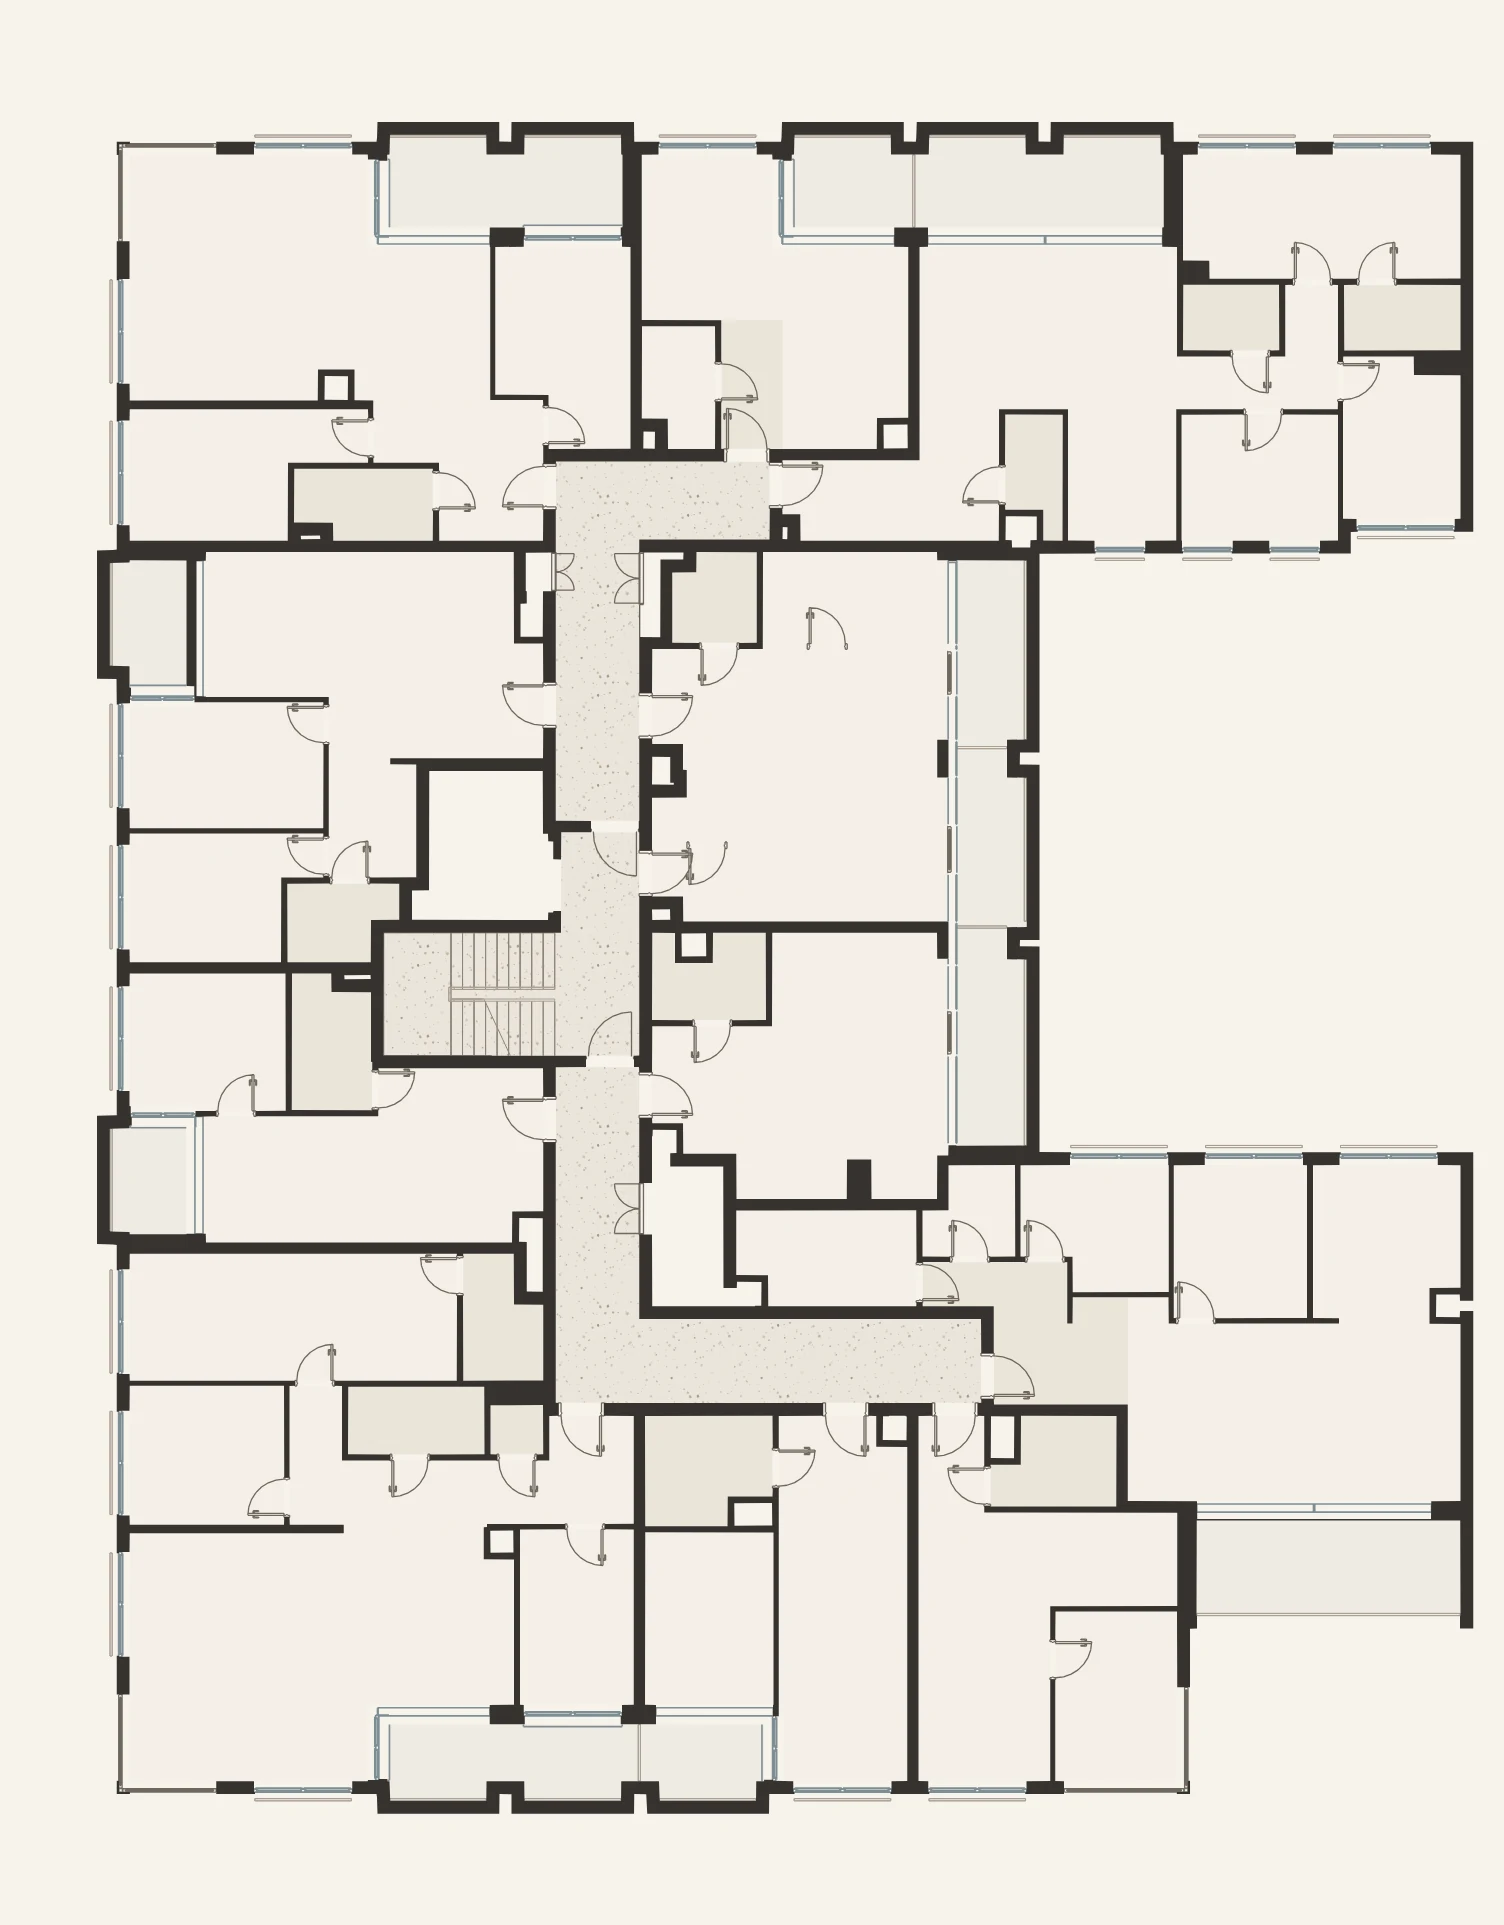
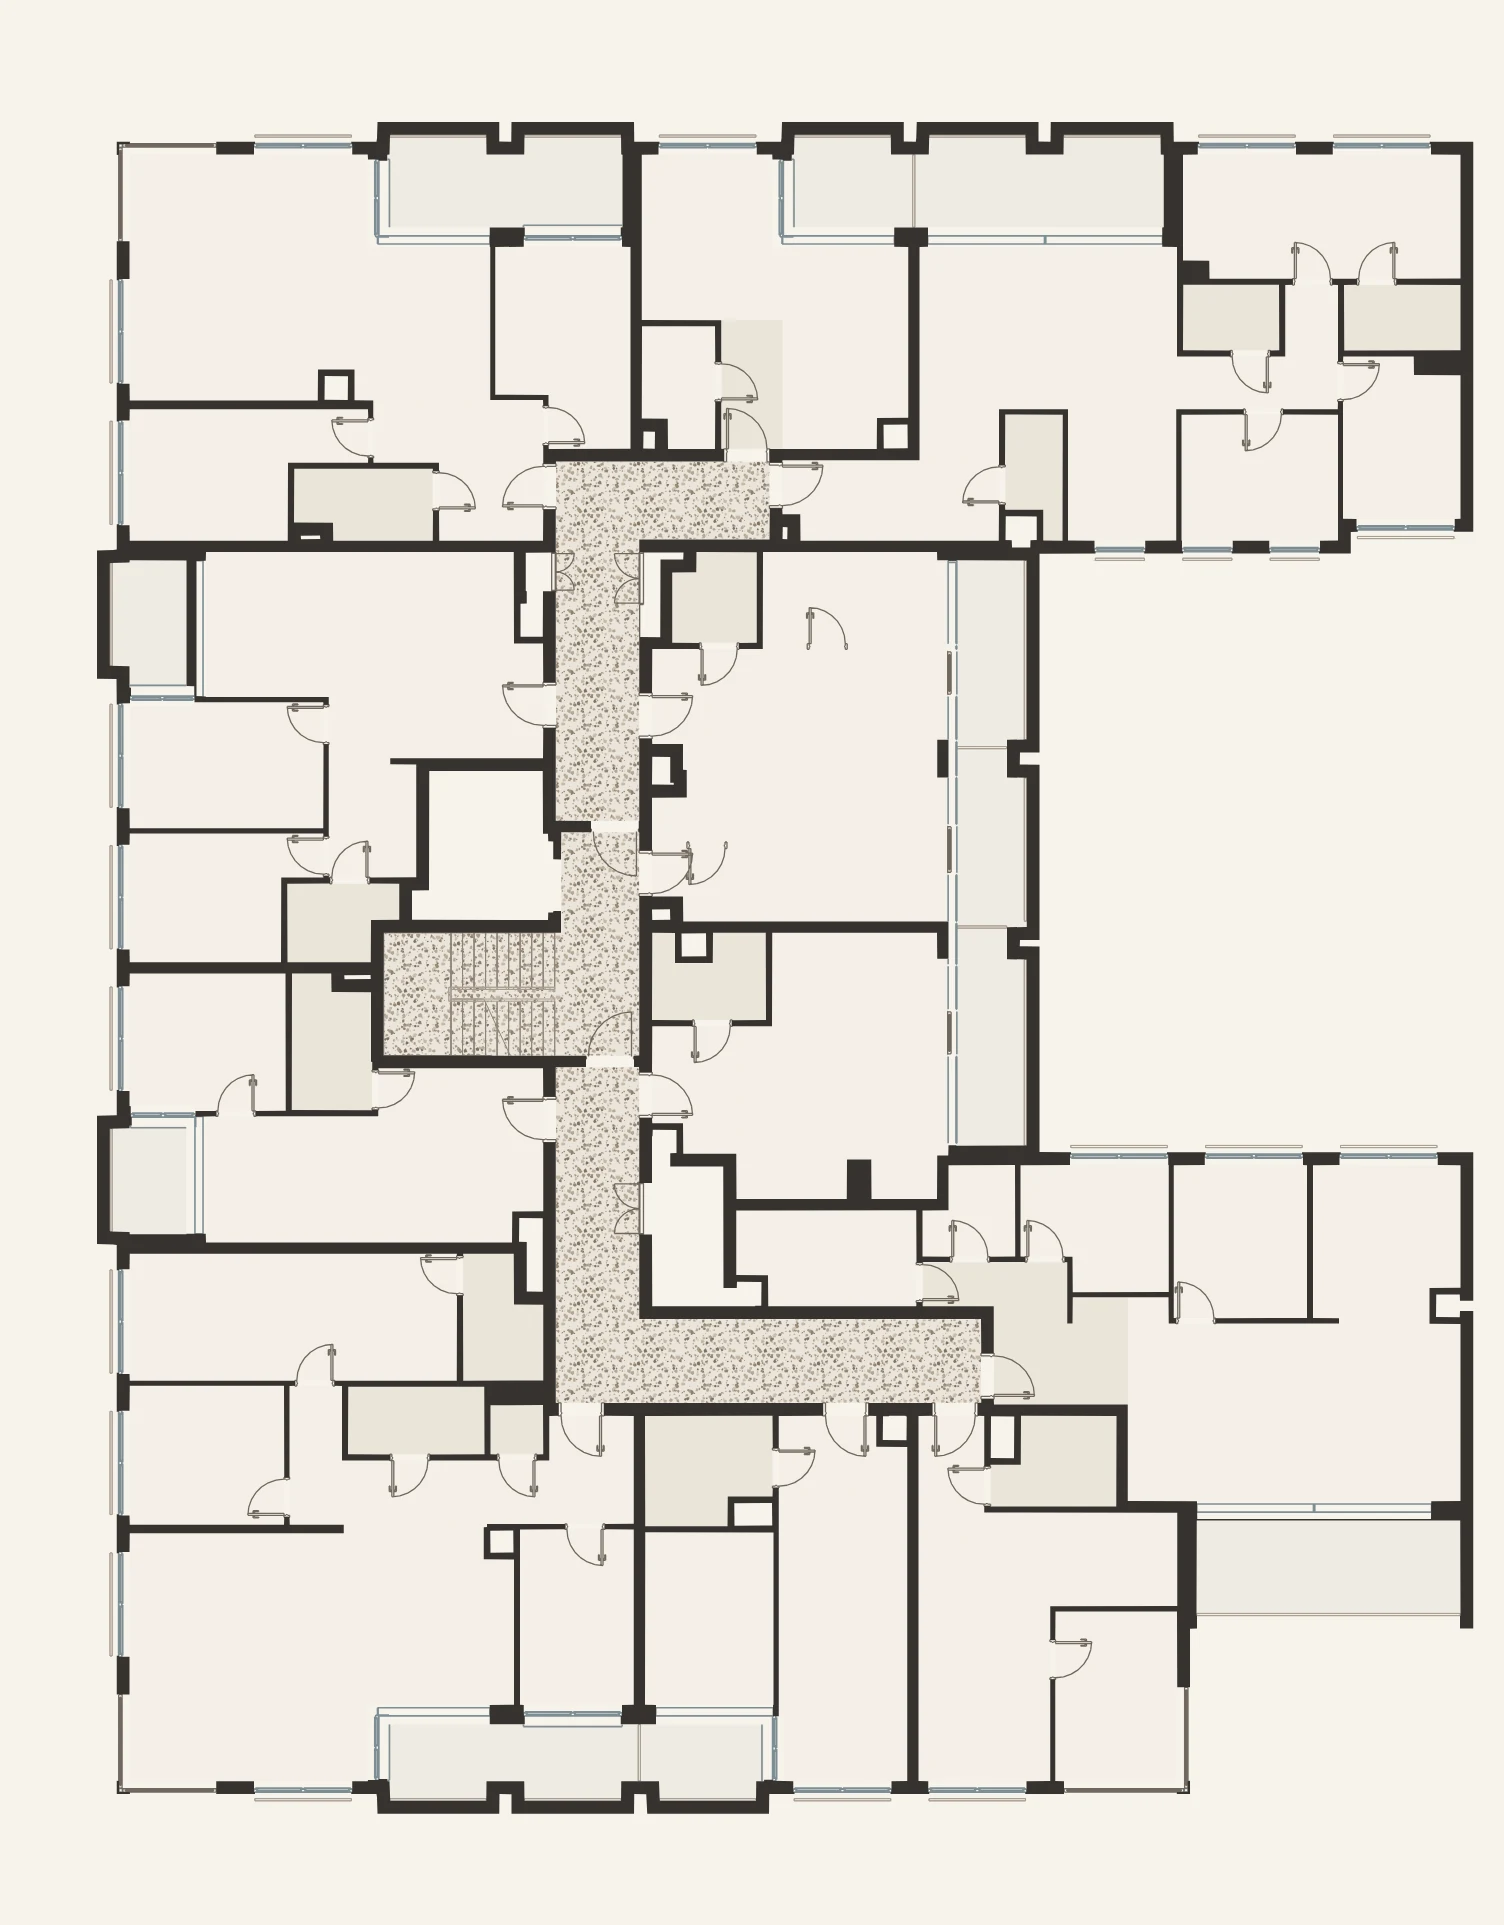
Rzuty: korytarze w wyraźniej kropkowanym lastryko (#120)
Claude-Session: https://claude.ai/code/session_01JqTzECbEDLjSdFDYMQNNHw

Changed region(s): [[0.25, 0.2182, 0.6562, 0.7481]]

diff --git a/index.html b/index.html
@@ -18,7 +18,7 @@
   <link href="https://fonts.googleapis.com/css2?family=Jost:ital,wght@0,300..600;1,300..500&family=Nunito+Sans:ital,opsz,wght@0,6..12,300..700;1,6..12,300..500&display=swap" rel="stylesheet">
   <link rel="preload" as="image" href="assets/img/okolica-lotnicze.webp" imagesrcset="assets/img/okolica-lotnicze-1600.webp 1600w, assets/img/okolica-lotnicze.webp 3200w" imagesizes="100vw">
   <link rel="stylesheet" href="https://unpkg.com/leaflet@1.9.4/dist/leaflet.css" crossorigin="">
-  <link rel="stylesheet" href="assets/css/style.css?v=1793990924">
+  <link rel="stylesheet" href="assets/css/style.css?v=1793990989">
   <script>document.documentElement.classList.add('js');
   // Futura / Avenir Next tylko na Apple: gdy ich brak, dostrajamy darmowe zamienniki (Jost, Nunito Sans)
   (function(){try{var c=document.createElement('canvas').getContext('2d'),t='MWNmwqr075 Łódź';function w(f){c.font='72px '+f;return c.measureText(t).width}
@@ -667,12 +667,12 @@
 </div>
 
 <script src="https://unpkg.com/leaflet@1.9.4/dist/leaflet.js" crossorigin=""></script>
-<script src="assets/js/intro.js?v=1793990924"></script>
-<script src="assets/js/extras.js?v=1793990924"></script>
-<script src="assets/js/units.js?v=1793990924"></script>
-<script src="assets/js/dziennik.js?v=1793990924"></script>
-<script src="assets/js/plan.js?v=1793990924"></script>
-<script src="assets/js/dollhouse.js?v=1793990924" defer></script>
-<script src="assets/js/main.js?v=1793990924"></script>
+<script src="assets/js/intro.js?v=1793990989"></script>
+<script src="assets/js/extras.js?v=1793990989"></script>
+<script src="assets/js/units.js?v=1793990989"></script>
+<script src="assets/js/dziennik.js?v=1793990989"></script>
+<script src="assets/js/plan.js?v=1793990989"></script>
+<script src="assets/js/dollhouse.js?v=1793990989" defer></script>
+<script src="assets/js/main.js?v=1793990989"></script>
 </body>
 </html>

diff --git a/mieszkanie.html b/mieszkanie.html
@@ -17,7 +17,7 @@
   <!-- Docelowo: Futura PT i Avenir Next z licencji (np. Adobe Fonts). Jost i Nunito Sans to darmowe zamienniki na urządzeniach bez tych krojów. -->
   <link href="https://fonts.googleapis.com/css2?family=Jost:ital,wght@0,300..600;1,300..500&family=Nunito+Sans:ital,opsz,wght@0,6..12,300..700;1,6..12,300..500&display=swap" rel="stylesheet">
   
-  <link rel="stylesheet" href="assets/css/style.css?v=1793990924">
+  <link rel="stylesheet" href="assets/css/style.css?v=1793990989">
   <script>document.documentElement.classList.add('js');
   // Futura / Avenir Next tylko na Apple: gdy ich brak, dostrajamy darmowe zamienniki (Jost, Nunito Sans)
   (function(){try{var c=document.createElement('canvas').getContext('2d'),t='MWNmwqr075 Łódź';function w(f){c.font='72px '+f;return c.measureText(t).width}
@@ -101,11 +101,11 @@
   <button class="lb-close" aria-label="Zamknij"><svg viewBox="0 0 24 24"><path d="M6 6l12 12M18 6L6 18"/></svg></button>
 </div>
 
-<script src="assets/js/extras.js?v=1793990924"></script>
-<script src="assets/js/units.js?v=1793990924"></script>
-<script src="assets/js/plan.js?v=1793990924"></script>
-<script src="assets/js/dollhouse.js?v=1793990924" defer></script>
-<script src="assets/js/unit.js?v=1793990924"></script>
-<script src="assets/js/page.js?v=1793990924"></script>
+<script src="assets/js/extras.js?v=1793990989"></script>
+<script src="assets/js/units.js?v=1793990989"></script>
+<script src="assets/js/plan.js?v=1793990989"></script>
+<script src="assets/js/dollhouse.js?v=1793990989" defer></script>
+<script src="assets/js/unit.js?v=1793990989"></script>
+<script src="assets/js/page.js?v=1793990989"></script>
 </body>
 </html>

diff --git a/porownaj.html b/porownaj.html
@@ -18,7 +18,7 @@
   <!-- Docelowo: Futura PT i Avenir Next z licencji (np. Adobe Fonts). Jost i Nunito Sans to darmowe zamienniki na urządzeniach bez tych krojów. -->
   <link href="https://fonts.googleapis.com/css2?family=Jost:ital,wght@0,300..600;1,300..500&family=Nunito+Sans:ital,opsz,wght@0,6..12,300..700;1,6..12,300..500&display=swap" rel="stylesheet">
   
-  <link rel="stylesheet" href="assets/css/style.css?v=1793990924">
+  <link rel="stylesheet" href="assets/css/style.css?v=1793990989">
   <script>document.documentElement.classList.add('js');
   // Futura / Avenir Next tylko na Apple: gdy ich brak, dostrajamy darmowe zamienniki (Jost, Nunito Sans)
   (function(){try{var c=document.createElement('canvas').getContext('2d'),t='MWNmwqr075 Łódź';function w(f){c.font='72px '+f;return c.measureText(t).width}
@@ -109,9 +109,9 @@
   <button class="lb-close" aria-label="Zamknij"><svg viewBox="0 0 24 24"><path d="M6 6l12 12M18 6L6 18"/></svg></button>
 </div>
 
-<script src="assets/js/extras.js?v=1793990924"></script>
-<script src="assets/js/units.js?v=1793990924"></script>
-<script src="assets/js/page.js?v=1793990924"></script>
-<script src="assets/js/porownaj.js?v=1793990924"></script>
+<script src="assets/js/extras.js?v=1793990989"></script>
+<script src="assets/js/units.js?v=1793990989"></script>
+<script src="assets/js/page.js?v=1793990989"></script>
+<script src="assets/js/porownaj.js?v=1793990989"></script>
 </body>
 </html>

diff --git a/budynek.html b/budynek.html
@@ -17,7 +17,7 @@
   <!-- Docelowo: Futura PT i Avenir Next z licencji (np. Adobe Fonts). Jost i Nunito Sans to darmowe zamienniki na urządzeniach bez tych krojów. -->
   <link href="https://fonts.googleapis.com/css2?family=Jost:ital,wght@0,300..600;1,300..500&family=Nunito+Sans:ital,opsz,wght@0,6..12,300..700;1,6..12,300..500&display=swap" rel="stylesheet">
   
-  <link rel="stylesheet" href="assets/css/style.css?v=1793990924">
+  <link rel="stylesheet" href="assets/css/style.css?v=1793990989">
   <script>document.documentElement.classList.add('js');
   // Futura / Avenir Next tylko na Apple: gdy ich brak, dostrajamy darmowe zamienniki (Jost, Nunito Sans)
   (function(){try{var c=document.createElement('canvas').getContext('2d'),t='MWNmwqr075 Łódź';function w(f){c.font='72px '+f;return c.measureText(t).width}
@@ -164,7 +164,7 @@
   <button class="lb-close" aria-label="Zamknij"><svg viewBox="0 0 24 24"><path d="M6 6l12 12M18 6L6 18"/></svg></button>
 </div>
 
-<script src="assets/js/extras.js?v=1793990924"></script>
-<script src="assets/js/page.js?v=1793990924"></script>
+<script src="assets/js/extras.js?v=1793990989"></script>
+<script src="assets/js/page.js?v=1793990989"></script>
 </body>
 </html>

diff --git a/manifest.html b/manifest.html
@@ -17,7 +17,7 @@
   <!-- Docelowo: Futura PT i Avenir Next z licencji (np. Adobe Fonts). Jost i Nunito Sans to darmowe zamienniki na urządzeniach bez tych krojów. -->
   <link href="https://fonts.googleapis.com/css2?family=Jost:ital,wght@0,300..600;1,300..500&family=Nunito+Sans:ital,opsz,wght@0,6..12,300..700;1,6..12,300..500&display=swap" rel="stylesheet">
   
-  <link rel="stylesheet" href="assets/css/style.css?v=1793990924">
+  <link rel="stylesheet" href="assets/css/style.css?v=1793990989">
   <script>document.documentElement.classList.add('js');
   // Futura / Avenir Next tylko na Apple: gdy ich brak, dostrajamy darmowe zamienniki (Jost, Nunito Sans)
   (function(){try{var c=document.createElement('canvas').getContext('2d'),t='MWNmwqr075 Łódź';function w(f){c.font='72px '+f;return c.measureText(t).width}
@@ -164,7 +164,7 @@
   <button class="lb-close" aria-label="Zamknij"><svg viewBox="0 0 24 24"><path d="M6 6l12 12M18 6L6 18"/></svg></button>
 </div>
 
-<script src="assets/js/extras.js?v=1793990924"></script>
-<script src="assets/js/page.js?v=1793990924"></script>
+<script src="assets/js/extras.js?v=1793990989"></script>
+<script src="assets/js/page.js?v=1793990989"></script>
 </body>
 </html>

diff --git a/polityka-prywatnosci.html b/polityka-prywatnosci.html
@@ -17,7 +17,7 @@
   <!-- Docelowo: Futura PT i Avenir Next z licencji (np. Adobe Fonts). Jost i Nunito Sans to darmowe zamienniki na urządzeniach bez tych krojów. -->
   <link href="https://fonts.googleapis.com/css2?family=Jost:ital,wght@0,300..600;1,300..500&family=Nunito+Sans:ital,opsz,wght@0,6..12,300..700;1,6..12,300..500&display=swap" rel="stylesheet">
   
-  <link rel="stylesheet" href="assets/css/style.css?v=1793990924">
+  <link rel="stylesheet" href="assets/css/style.css?v=1793990989">
   <script>document.documentElement.classList.add('js');
   // Futura / Avenir Next tylko na Apple: gdy ich brak, dostrajamy darmowe zamienniki (Jost, Nunito Sans)
   (function(){try{var c=document.createElement('canvas').getContext('2d'),t='MWNmwqr075 Łódź';function w(f){c.font='72px '+f;return c.measureText(t).width}
@@ -294,7 +294,7 @@
   <button class="lb-close" aria-label="Zamknij"><svg viewBox="0 0 24 24"><path d="M6 6l12 12M18 6L6 18"/></svg></button>
 </div>
 
-<script src="assets/js/extras.js?v=1793990924"></script>
-<script src="assets/js/page.js?v=1793990924"></script>
+<script src="assets/js/extras.js?v=1793990989"></script>
+<script src="assets/js/page.js?v=1793990989"></script>
 </body>
 </html>

diff --git a/assets/js/porownaj.js b/assets/js/porownaj.js
@@ -20,7 +20,7 @@
   var dimH = function (u) { return Math.max.apply(null, u.levels.map(function (l) { return cropH(u, l); })); };
   var K = 1;
   function thumb(u) {
-    return u.levels.map(function (l) { return '<img style="width:' + (cropW(u, l) * K).toFixed(2) + '%" src="assets/img/plany/lokale/' + u.id + '-' + l + '-sm.webp?v=1793990924" alt="Rzut lokalu ' + u.id + (u.levels.length > 1 ? ', piętro ' + l : '') + '" loading="lazy">'; }).join('');
+    return u.levels.map(function (l) { return '<img style="width:' + (cropW(u, l) * K).toFixed(2) + '%" src="assets/img/plany/lokale/' + u.id + '-' + l + '-sm.webp?v=1793990989" alt="Rzut lokalu ' + u.id + (u.levels.length > 1 ? ', piętro ' + l : '') + '" loading="lazy">'; }).join('');
   }
   function roomArea(u, re) { return u.roomsList.filter(function (r) { return re.test(r[1]); }).reduce(function (s, r) { return s + r[2]; }, 0); }
 

diff --git a/assets/js/dollhouse.js b/assets/js/dollhouse.js
@@ -688,7 +688,7 @@
     var load = dlg.querySelector('.dh__load'); load.hidden = false; load.textContent = 'Ładowanie modelu…';
     if (!viewer) { load.textContent = 'Ta przeglądarka nie obsługuje widoku 3D.'; return; }
     viewer.az = -0.62; viewer.el = 1.0; viewer.zoom = 1;
-    fetch(BASE + encodeURIComponent(id) + '.json?v=1793990924').then(function (r) { return r.ok ? r.json() : Promise.reject(); }).then(function (d) {
+    fetch(BASE + encodeURIComponent(id) + '.json?v=1793990989').then(function (r) { return r.ok ? r.json() : Promise.reject(); }).then(function (d) {
       data = d; setLevels(); show(0); load.hidden = true; intro();
     }).catch(function () { load.textContent = 'Model 3D tego lokalu jest w przygotowaniu.'; });
     setTimeout(function () { var x = dlg.querySelector('.dh__x'); if (x) x.focus({ preventScroll: true }); }, 50);

diff --git a/assets/js/main.js b/assets/js/main.js
@@ -502,7 +502,7 @@
   // miniatura prawdziwego rzutu lokalu (z meblami); dwupoziomowe: obie kondygnacje obok siebie
   function planThumb(u) {
     return u.levels.map(function (l) {
-      return '<img src="assets/img/plany/lokale/' + u.id + '-' + l + '-sm.webp?v=1793990924" alt="Rzut lokalu ' + u.id + (u.levels.length > 1 ? ', piętro ' + l : '') + '" loading="lazy">';
+      return '<img src="assets/img/plany/lokale/' + u.id + '-' + l + '-sm.webp?v=1793990989" alt="Rzut lokalu ' + u.id + (u.levels.length > 1 ? ', piętro ' + l : '') + '" loading="lazy">';
     }).join('');
   }
 

diff --git a/assets/js/plan.js b/assets/js/plan.js
@@ -3,7 +3,7 @@
 (function () {
   'use strict';
   var NS = 'http://www.w3.org/2000/svg';
-  var W = 1504, H = 1925, V = '?v=1793990924';
+  var W = 1504, H = 1925, V = '?v=1793990989';
 
   function el(tag, attrs, parent) {
     var n = document.createElementNS(NS, tag);
